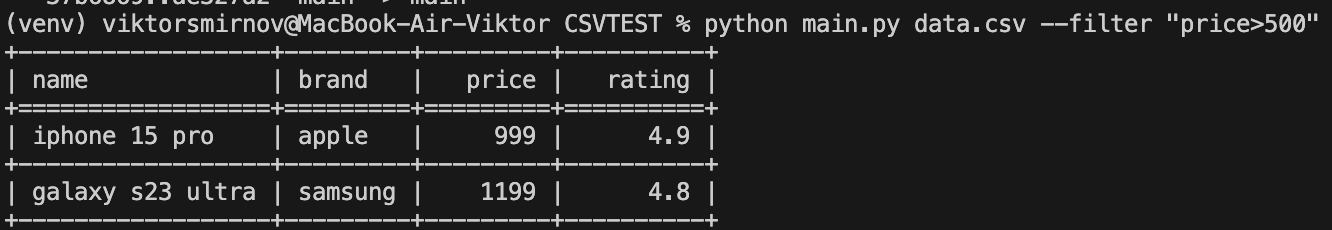
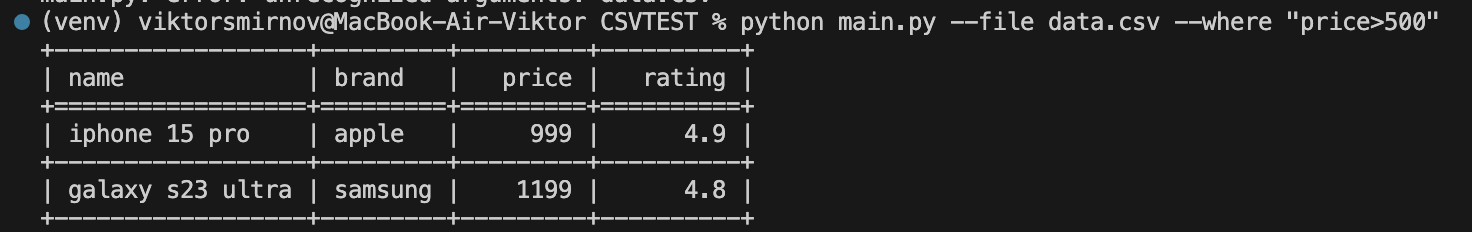
ReadmeV2

diff --git a/README.md b/README.md
@@ -59,24 +59,24 @@ python -m pytest -v
 
 # Запуск скрипта с указанием файла
 ```bash
-python main.py data.csv
+python main.py --file data.csv
 ```
 ![alt text](image.png)
 
 # Запуск с фильтрацией (например, цена > 500)
 ```bash
-python main.py data.csv --where "price>500"
+python main.py --file data.csv --where "price>500"
 ```
 ![alt text](image-1.png)
 
 # Запуск с агрегацией (например, среднее значение цены)
 ```bash
-python main.py data.csv --aggregate "price=avg"
+python main.py --file data.csv --aggregate "price=avg"
 ```
 ![alt text](image-2.png)
 
 # Совместное использование фильтрации и агрегации
 ```bash
-python main.py data.csv --where "brand=xiaomi" --agg "price=min"
+python main.py --file data.csv --where "brand=xiaomi" --aggregate "price=min"
 ```
 ![alt text](image-3.png)
